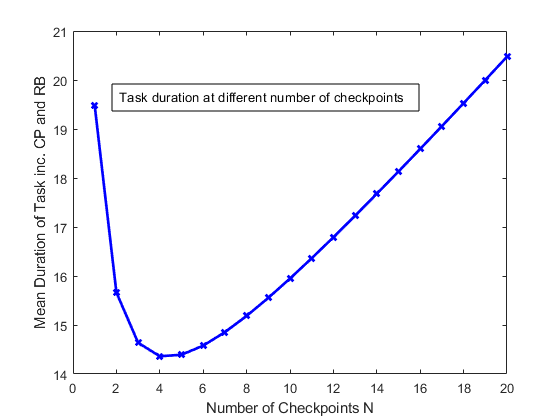
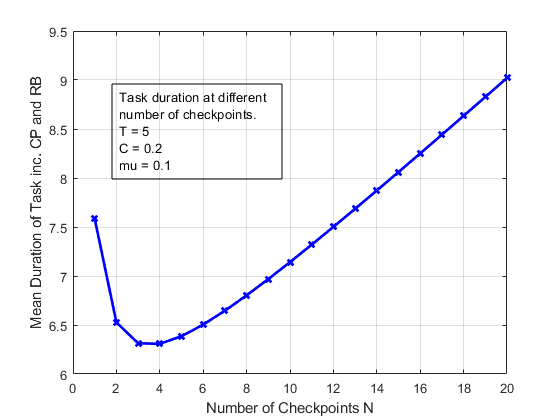
Added stuff

diff --git a/NPA/4-SQos/mm4.m b/NPA/4-SQos/mm4.m
@@ -1,0 +1,82 @@
+clc; clear all; close all;
+
+% AHPD
+
+N = 12;
+
+% SR
+s_single = [1 1 2 3 4 5 6 7 8 9 10 11];
+t_single = [2 12 3 4 5 6 7 8 9 10 11 12];
+G_single = graph(s_single,t_single);
+plot(G_single)
+grid on
+d_single = distances(G_single);
+
+averageHops = 0;
+firstNode = 0;
+secondNode = 0;
+
+for i = 1:N
+    firstNode = i;
+    for j = 1:N
+        secondNode = j;
+        if firstNode ~= secondNode
+            averageHops = averageHops + d_single(i,j);
+        end
+        if firstNode == 1 && secondNode == 12
+            firstNodeHops = averageHops;
+        end
+    end
+end
+
+A_SR_n = (1/(N*(N-1))) * averageHops
+D_SR_n = max(firstNodeHops)/(N/2)
+
+A_SR_N_Formula = (N^2)/(4*(N-1))
+D_SR_N_Formula = floor(N/2)
+
+
+% DR
+pathsetDSR = [[1:N]', [2:N, 1]';[N+1:2*N]', ...
+[N+2:2*N, N+1]'; [1:N]',[N+1:N*2]' ];
+pathsetDSR = [pathsetDSR, ones(length(pathsetDSR),1)];
+figure
+plot(graph(pathsetDSR(:,1),pathsetDSR(:,2),pathsetDSR(:,3)),'layout','force3')
+
+A_DR_N_12Nodes_Formula = (((N^2)/4)+N)/(2*N-2)
+D_DR_N_12Nodes_Formula = floor(N/4 + 1)
+
+A_DR_N_24Nodes_Formula = ((((2*N)^2)/4)+(2*N))/(2*(2*N)-2)
+D_DR_N_24Nodes_Formula = floor((2*N)/4 + 1)
+
+% CR
+pathsetCR = [[1:N]', [2:N, 1]';[1:2:N]', [mod((0:2:N-1)+3,N)+1]'];
+pathsetCR = [pathsetCR, ones(length(pathsetCR),1)];
+figure
+plot(graph(pathsetCR(:,1),pathsetCR(:,2),pathsetCR(:,3)),'layout','circle')
+
+G_CR = graph(pathsetCR(:,1),pathsetCR(:,2),pathsetCR(:,3));
+figure
+plot(G_CR)
+grid on
+d_cr = distances(G_CR);
+
+averageHops = 0;
+firstNode = 0;
+secondNode = 0;
+
+for i = 1:N
+    firstNode = i;
+    for j = 1:N
+        secondNode = j;
+        if firstNode ~= secondNode
+            averageHops = averageHops + d_cr(i,j);
+        end
+        if firstNode == 1 && secondNode == 12
+            firstNodeHops = averageHops;
+        end
+    end
+end
+
+A_CR_n = (1/(N*(N-1))) * averageHops
+D_CR_n = max(firstNodeHops)/(N/2)

diff --git a/FDIM miniproject/checkpointing.m b/FDIM miniproject/checkpointing.m
@@ -1,24 +1,25 @@
 clear all; close all;
 
-T = 10;             % Task Duration
-C = 0.5;            % Duration per checkpoint
-mu = 0.1;           % Error rate
-N = 1:50;           % Number of checkpoints
-mdur = zeros(1,50); % Mean duration
+T = 5;             % Task Duration
+C = 0.2;            % Duration per checkpoint
+mu = 0.01;           % Error rate
+N = 1:20;           % Number of checkpoints
+mdur = zeros(1,length(N)); % Mean duration
 
-for i=1:50
-    i = i-1;        % Start at index 0
-    ps = exp(-mu*(T/((i+1)+C))); % Success probability
-    edur = (i*(T/(i+1)+C)+T/(i+1))/ps; % Expected duration
-    mdur(i+1) = edur; % Add to array
+for i=N                                 % Loop N times
+    i = i-1;                            % Start at index 0
+    ps = exp(-mu*(T/((i+1)+C)));        % Success probability
+    edur = (i*(T/(i+1)+C)+T/(i+1))/ps;  % Expected duration
+    mdur(i+1) = edur;                   % Add to array
 end
 
 plot(N,mdur,'b-x','Linewidth',2);   % Plot durations 
 xlabel('Number of Checkpoints N'); 
 ylabel('Mean Duration of Task inc. CP and RB');
 dim = [.2 .5 .3 .3];
-str = 'Task duration at different number of checkpoints';
+str = {'Task duration at different','number of checkpoints.','T = 5','C = 0.2','mu = 0.1'};
 annotation('textbox',dim,'String',str,'FitBoxToText','on');
+grid on
 
 
 %durtaskcheck = T/((N+1)+C)
